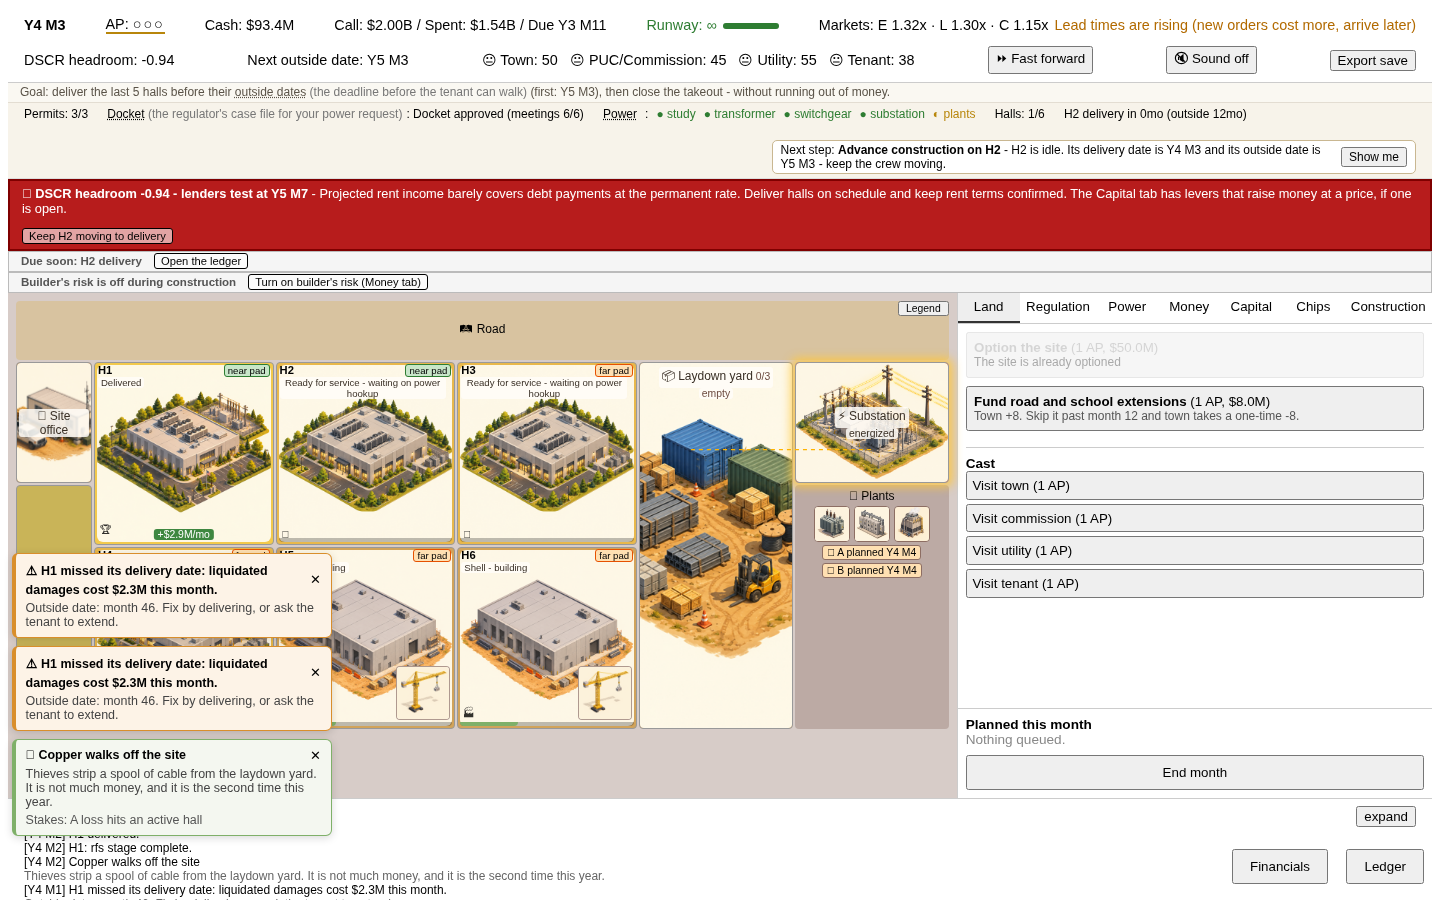
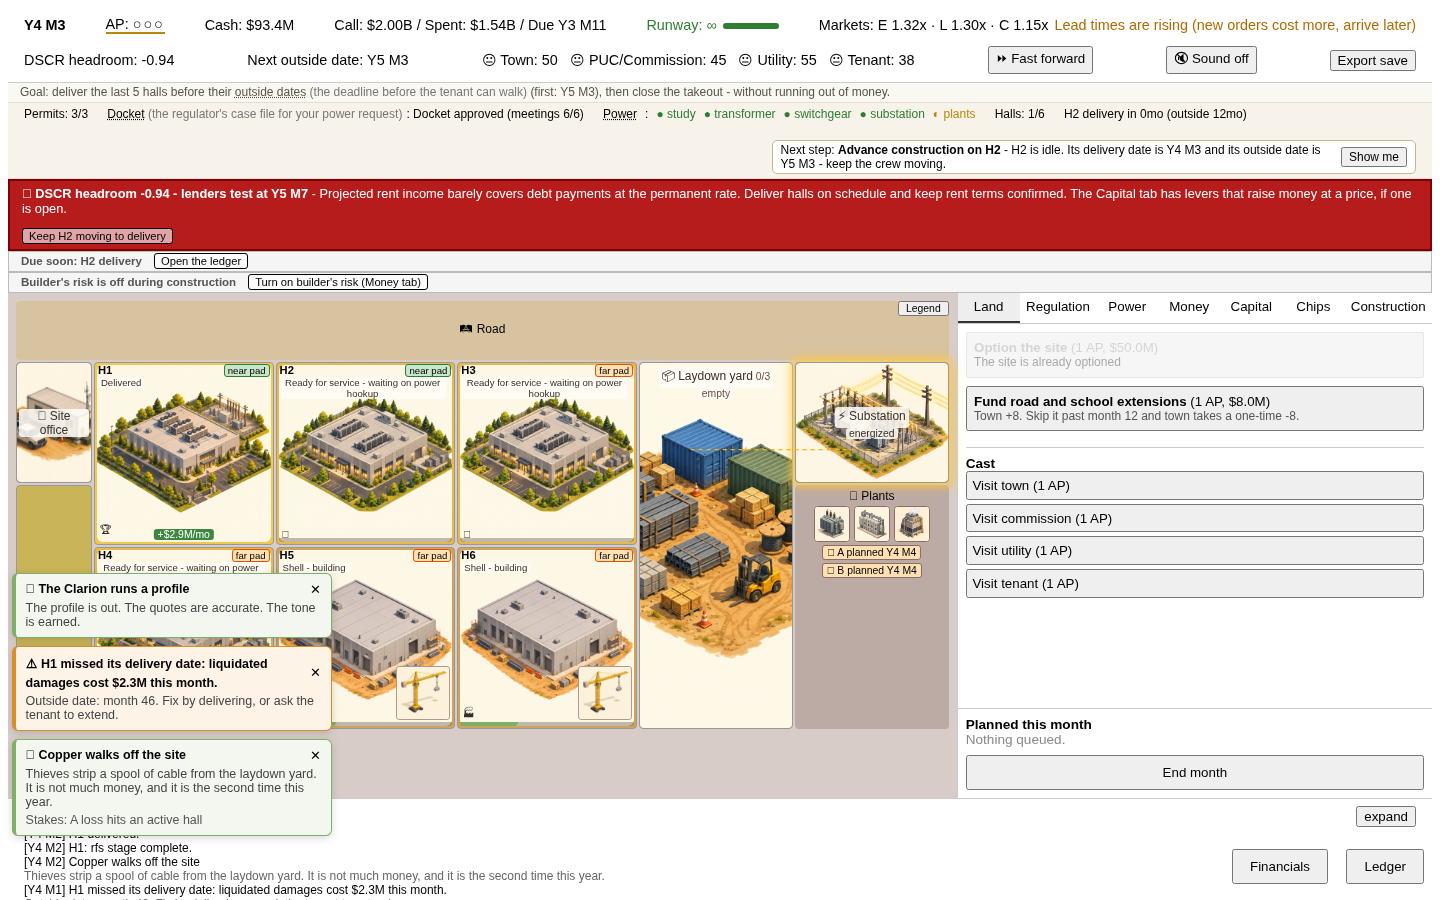
UX 10b: dedupe identical notice cards (keep latest) (#37)

Changed region(s): [[0.0, 0.5911, 0.25, 0.7156]]

diff --git a/tests/ui/eventNotices.test.ts b/tests/ui/eventNotices.test.ts
@@ -2,7 +2,7 @@ import { describe, expect, it } from 'vitest';
 
 import { loadContent } from '../../src/content/load';
 import type { LogEntry } from '../../src/engine/types';
-import { isNoticeEntry, noticeStakes } from '../../src/ui/components/EventNotices';
+import { dedupeNotices, isNoticeEntry, noticeStakes, type Notice } from '../../src/ui/components/EventNotices';
 
 // UX 6 (playthrough): no-choice event cards and warnings must surface as visible cards with
 // stakes, modeled on the hiring-fair modal. These pin the entry filter and the stakes line.
@@ -32,5 +32,28 @@ describe('noticeStakes', () => {
   it('returns nothing for warnings and unknown titles', () => {
     expect(noticeStakes({ month: 5, kind: 'warning', text: 'Unanswered discovery request slipped the docket vote.' }, content)).toBeUndefined();
     expect(noticeStakes({ month: 5, kind: 'event', text: 'No such card' }, content)).toBeUndefined();
+  });
+});
+
+describe('dedupeNotices', () => {
+  const card = (title: string, body?: string): Notice => ({
+    key: Math.random().toString(36),
+    title,
+    body,
+    warning: true,
+    expiresAt: 0,
+  });
+
+  it('keeps only the latest occurrence of an identical title+body, order preserved', () => {
+    const a1 = card('H1 missed its delivery date: liquidated damages cost $2.3M this month.', 'Outside date: month 46.');
+    const b = card('Copper walks off the site');
+    const a2 = { ...a1, key: 'newer' };
+    expect(dedupeNotices([a1, b, a2]).map((n) => n.key)).toEqual([b.key, 'newer']);
+  });
+
+  it('keeps cards that differ only in body', () => {
+    const a = card('Late', 'month 44');
+    const b = card('Late', 'month 45');
+    expect(dedupeNotices([a, b])).toHaveLength(2);
   });
 });

diff --git a/src/ui/components/EventNotices.tsx b/src/ui/components/EventNotices.tsx
@@ -38,6 +38,22 @@ export function noticeStakes(entry: LogEntry, content: Content): string | undefi
 }
 
 const MAX_VISIBLE = 3;
+
+/** A repeating monthly penalty (e.g. liquidated damages) logs an identical entry each month;
+ * stacking identical cards reads as a bug. Keep only the latest occurrence of each title+body,
+ * order preserved. */
+export function dedupeNotices(notices: Notice[]): Notice[] {
+  const seen = new Set<string>();
+  return [...notices]
+    .reverse()
+    .filter((n) => {
+      const id = `${n.title}\n${n.body ?? ''}`;
+      if (seen.has(id)) return false;
+      seen.add(id);
+      return true;
+    })
+    .reverse();
+}
 /** Cards fade on their own: a card must never sit over a gameplay control forever (qa-fixes-2
  * deadlocked when a card covered End month). The dismiss button remains for impatient players. */
 const NOTICE_TTL_MS = 9000;
@@ -86,7 +102,7 @@ export function EventNotices() {
         expiresAt: Date.now() + NOTICE_TTL_MS,
       }));
     if (cards.length > 0) {
-      setNotices((prev) => [...prev, ...cards].slice(-MAX_VISIBLE));
+      setNotices((prev) => dedupeNotices([...prev, ...cards]).slice(-MAX_VISIBLE));
     }
   }, [log, pendingTitle, content]);
 

diff --git a/CHECKPOINT.md b/CHECKPOINT.md
@@ -652,3 +652,24 @@ state.log (grep clean), no numeric/rng/bot behavior changed.
 | balance grid | skipped: log-only engine change - no numeric, rng, content-tuning or bot behavior touched; 499 vitest (incl. perfect-play + state-equality fixtures) confirm state math unchanged |
 | full suite green | done: 499 vitest, 42 playwright, eslint, tsc, vite build |
 | screenshots inspected | done: docs/screenshots/ux10/ (LD card + HUD strip, desktop 1440) |
+
+# UX 10b - dedupe identical notice cards
+
+## The change (UI only)
+
+Bug found in the UX 10 screenshot: a repeating monthly penalty (liquidated
+damages) logs an identical entry each late month, and the notice stack showed
+two identical H1 LD cards. Root cause is not double-logging (one entry per
+month, correct) - identical text from consecutive months is indistinguishable
+in the stack. Fix: exported dedupeNotices() keeps only the latest occurrence
+of each title+body in the visible stack, order preserved, then caps at
+MAX_VISIBLE. Pinned by two unit tests.
+
+## Done criteria
+
+| criterion | status |
+|-----------|--------|
+| no identical duplicate cards | done: re-run of scripts/ux10.mjs shows 3 distinct cards (Clarion, one LD card, Copper), screenshot inspected |
+| repeats still surface once | done: latest LD card still present |
+| balance grid | skipped: UI-only, no engine/content-tuning/bot change |
+| full suite green | done: 501 vitest (2 new dedupe tests), 42 playwright, eslint, tsc, vite build |
